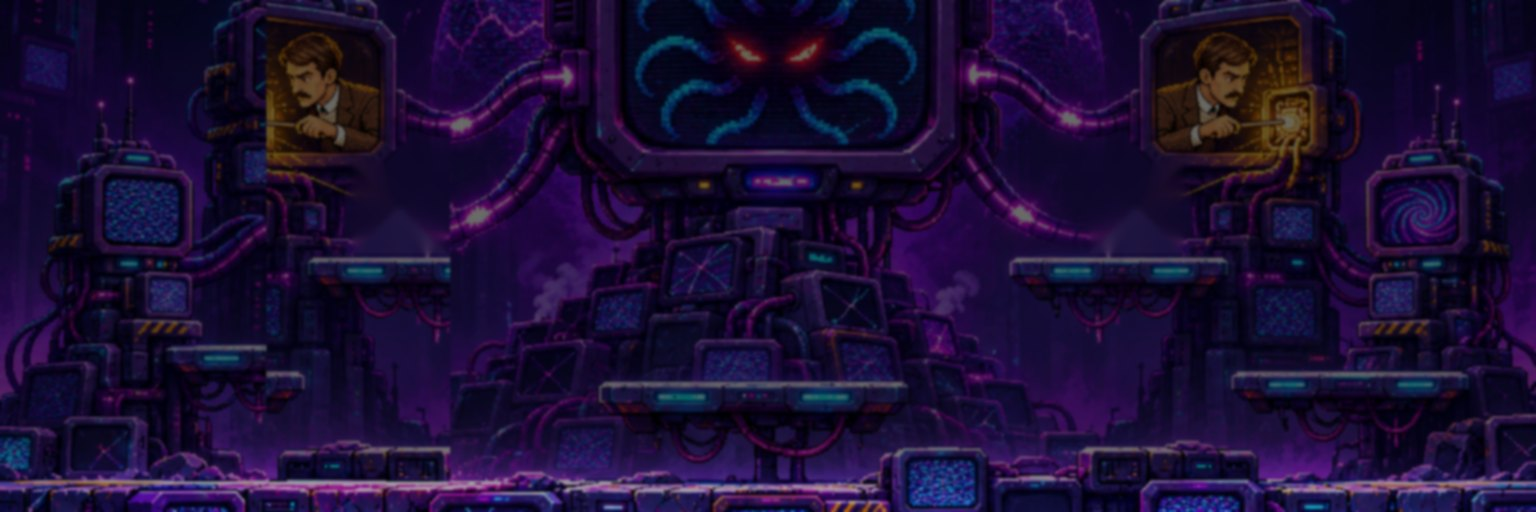
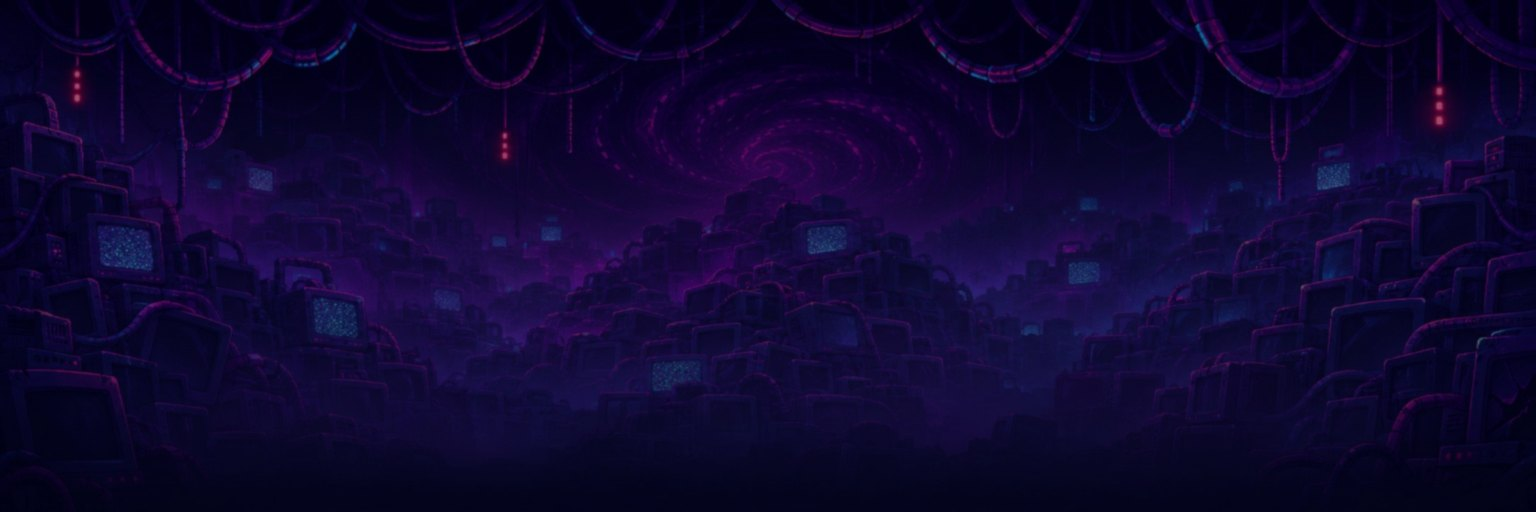
Infoshum: new hall backdrop, smoother colossus/beam, moods; roofs mast, paparazzi, agitator chimneys
- Phase 1 backdrop: mountain of monitors instead of the duplicated arena
- Hall is built immediately on room activation (no flashing platforms)
- Colossus pose crossfades, continuous beam, tower face crossfade
- Breakout Infoshum scaled to match phase 3
- Menacing mood cycle for the monitor faces in phases 1-2
- Roofs: inflator mast always stands on a roof (mirrors when needed)
- Paparazzi shoot more often and always blind
- Agitator chimneys stand on the roof

Claude-Session: https://claude.ai/code/session_01CNS5ua52pLKCa7cQw7qmFC

diff --git a/index.html b/index.html
@@ -5,7 +5,7 @@
 <meta name="theme-color" content="#030a1e"><meta name="description" content="УМА ПРОТИВ ИНФОШУМА — держи ухо востро. Пиксельная игра про кошку Уму и ожившие новости.">
 <title>УМА ПРОТИВ ИНФОШУМА — держи ухо востро</title>
 <link rel="preload" href="./assets/game-heading.png?v=0.21.5" as="image"><link rel="icon" href="favicon.svg" type="image/svg+xml"><link rel="stylesheet" href="style.css?v=0.21.5-stage1"><link rel="stylesheet" href="story-ui.css?v=0.21.5">
-<script type="importmap">{"imports":{"./static-art.js?v=0.21.5":"./static-art.js?v=0.21.5-source","./dimension-art.js?v=0.21.5":"./dimension-art.js?v=0.21.5-dim2","./dimension-systems.js?v=0.21.5":"./dimension-systems.js?v=0.21.5-dim2","./dimension-map.js?v=0.21.5":"./dimension-map.js?v=0.21.5-dim2","./interference-art.js?v=0.21.5":"./interference-art.js?v=0.21.5-infoshum2","./player-rest.js?v=0.21.5":"./player-rest.js?v=0.21.5-source","./echo-double-art.js?v=0.21.5":"./echo-double-art.js?v=0.21.5-echo2","./echo-double.js?v=0.21.5":"./echo-double.js?v=0.21.5-source","./controls-art.js?v=0.21.5":"./controls-art.js?v=0.21.5-moods","./drop-through.js?v=0.21.5":"./drop-through.js?v=0.21.5-source","./cat-animation.js?v=0.21.5":"./cat-animation.js?v=0.21.5-moods","./botfarm-art.js?v=0.21.5":"./botfarm-art.js?v=0.21.5-art3","./botfarm.js?v=0.21.5":"./botfarm.js?v=0.21.5-fb3","./studio-systems.js?v=0.21.5":"./studio-systems.js?v=0.21.5-stage4","./studio-map.js?v=0.21.5":"./studio-map.js?v=0.21.5-fb3","./studio-art.js?v=0.21.5":"./studio-art.js?v=0.21.5-studio2","./studio-container-art.js?v=0.21.5":"./studio-container-art.js?v=0.21.5-stage4","./pit-falls.js?v=0.21.5":"./pit-falls.js?v=0.21.5-studio2","./campaign-enemies.js?v=0.21.5":"./campaign-enemies.js?v=0.21.5-jelly","./art.js?v=0.21.5":"./art.js?v=0.21.5-jelly","./finale.js?v=0.21.5":"./finale.js?v=0.21.5-broadcast2","./boss-phases.js?v=0.21.5":"./boss-phases.js?v=0.21.5-final","./assets.js?v=0.21.5":"./assets.js?v=0.21.5-broadcast2","./boss.js?v=0.21.5":"./boss.js?v=0.21.5-colossus","./boss-abilities.js?v=0.21.5":"./boss-abilities.js?v=0.21.5-roofs","./boss-art.js?v=0.21.5":"./boss-art.js?v=0.21.5-spreader2","./enemies.js?v=0.21.5":"./enemies.js?v=0.21.5-fb3","./render.js?v=0.21.5":"./render.js?v=0.21.5-colossus","./dimension-monsters-art.js?v=0.21.5":"./dimension-monsters-art.js?v=0.21.5-jelly","./loading-art.js?v=0.21.5":"./loading-art.js?v=0.21.5-final","./studio-monsters.js?v=0.21.5":"./studio-monsters.js?v=0.21.5-studio2","./paparazzi.js?v=0.21.5":"./paparazzi.js?v=0.21.5-roofs2","./new-monsters-art.js?v=0.21.5":"./new-monsters-art.js?v=0.21.5-studio2","./tactical-art.js?v=0.21.5":"./tactical-art.js?v=0.21.5-art3","./boss-attack-fx.js?v=0.21.5":"./boss-attack-fx.js?v=0.21.5-stage6","./level.js?v=0.21.5":"./level.js?v=0.21.5-story","./campaign-art.js?v=0.21.5":"./campaign-art.js?v=0.21.5-dim2","./stage-art.js?v=0.21.5":"./stage-art.js?v=0.21.5-source","./engine.js?v=0.21.5":"./engine.js?v=0.21.5-storm","./shield-art.js?v=0.21.5":"./shield-art.js?v=0.21.5-studio","./spreader-combat.js?v=0.21.5":"./spreader-combat.js?v=0.21.5-stage1","./room-transitions.js?v=0.21.5":"./room-transitions.js?v=0.21.5-colossus","./projectile-art.js?v=0.21.5":"./projectile-art.js?v=0.21.5-reference","./spreader-minion-art.js?v=0.21.5":"./spreader-minion-art.js?v=0.21.5-tirazh","./catalog.js?v=0.21.5":"./catalog.js?v=0.21.5-jelly","./boss-defeat-art.js?v=0.21.5":"./boss-defeat-art.js?v=0.21.5-montage","./infoshum-combat.js?v=0.21.5":"./infoshum-combat.js?v=0.21.5-broadcast2","./infoshum-art.js?v=0.21.5":"./infoshum-art.js?v=0.21.5-broadcast2","./infoshum-sprites.js?v=0.21.5":"./infoshum-sprites.js?v=0.21.5-broadcast","./spreader-arena-art.js?v=0.21.5":"./spreader-arena-art.js?v=0.21.5-spreader2","./boss-hud.js?v=0.21.5":"./boss-hud.js?v=0.21.5-stage1","./game.js?v=0.21.5":"./game.js?v=0.21.5-broadcast2","./audio.js?v=0.21.5":"./audio.js?v=0.21.5-studio2","./story.js?v=0.21.5":"./story.js?v=0.21.5-broadcast2","./terrain.js?v=0.21.5":"./terrain.js?v=0.21.5-art3","./world-platforms.js?v=0.21.5":"./world-platforms.js?v=0.21.5-colossus","./manipulator-combat.js?v=0.21.5":"./manipulator-combat.js?v=0.21.5-crane2","./manipulator-art.js?v=0.21.5":"./manipulator-art.js?v=0.21.5-loading","./route-transition-art.js?v=0.21.5":"./route-transition-art.js?v=0.21.5-studio","./agitator-combat.js?v=0.21.5":"./agitator-combat.js?v=0.21.5-stage6","./agitator-art.js?v=0.21.5":"./agitator-art.js?v=0.21.5-stage6","./infoshum-tentacle-art.js?v=0.21.5":"./infoshum-tentacle-art.js?v=0.21.5-broadcast","./chapter-route-art.js?v=0.21.5":"./chapter-route-art.js?v=0.21.5-conveyor","./chapter-routes.js?v=0.21.5":"./chapter-routes.js?v=0.21.5-dim2","./chapter-systems.js?v=0.21.5":"./chapter-systems.js?v=0.21.5-echo2","./encounters.js?v=0.21.5":"./encounters.js?v=0.21.5-studio2","./monster-animation.js?v=0.21.5":"./monster-animation.js?v=0.21.5-art3","./monster-guides.js?v=0.21.5":"./monster-guides.js?v=0.21.5-jelly","./newsroom-art.js?v=0.21.5":"./newsroom-art.js?v=0.21.5-stage2","./passage-art.js?v=0.21.5":"./passage-art.js?v=0.21.5-conveyor","./tactical-enemies.js?v=0.21.5":"./tactical-enemies.js?v=0.21.5-art3","./yuri-portrait.js?v=0.21.5":"./yuri-portrait.js?v=0.21.5-conveyor","./target-highlight.js?v=0.21.5":"./target-highlight.js?v=0.21.5-colossus","./spreader-art.js?v=0.21.5":"./spreader-art.js?v=0.21.5-tirazh","./shelters.js?v=0.21.5":"./shelters.js?v=0.21.5-spreader2","./signal-art.js?v=0.21.5":"./signal-art.js?v=0.21.5-fb3","./navigation-art.js?v=0.21.5":"./navigation-art.js?v=0.21.5-loading","./pixel.js?v=0.21.5":"./pixel.js?v=0.21.5-tutorial","./tutorial.js?v=0.21.5":"./tutorial.js?v=0.21.5-tutorial","./tutorial-art.js?v=0.21.5":"./tutorial-art.js?v=0.21.5-colossus","./readability.js?v=0.21.5":"./readability.js?v=0.21.5-source","./roofs-map.js?v=0.21.5":"./roofs-map.js?v=0.21.5-fb3","./roofs-systems.js?v=0.21.5":"./roofs-systems.js?v=0.21.5-fb3","./roofs-art.js?v=0.21.5":"./roofs-art.js?v=0.21.5-art3","./agitator-map.js?v=0.21.5":"./agitator-map.js?v=0.21.5-agitator3","./pause-menu.js?v=0.21.5":"./pause-menu.js?v=0.21.5-agitator3","./hud-sprites.js?v=0.21.5":"./hud-sprites.js?v=0.21.5-hudbars","./screens.js?v=0.21.5":"./screens.js?v=0.21.5-studio2","./enemy-arrival-art.js?v=0.21.5":"./enemy-arrival-art.js?v=0.21.5-stage2","./infoshum-atlas.js?v=0.21.5":"./infoshum-atlas.js?v=0.21.5-broadcast2","./chapter-story.js?v=0.21.5":"./chapter-story.js?v=0.21.5-broadcast2","./prologue.js?v=0.21.5":"./prologue.js?v=0.21.5-story","./ending-ui.js?v=0.21.5":"./ending-ui.js?v=0.21.5-broadcast2","./story-art.js?v=0.21.5":"./story-art.js?v=0.21.5-broadcast2"}}</script>
+<script type="importmap">{"imports":{"./static-art.js?v=0.21.5":"./static-art.js?v=0.21.5-source","./dimension-art.js?v=0.21.5":"./dimension-art.js?v=0.21.5-dim2","./dimension-systems.js?v=0.21.5":"./dimension-systems.js?v=0.21.5-dim2","./dimension-map.js?v=0.21.5":"./dimension-map.js?v=0.21.5-dim2","./interference-art.js?v=0.21.5":"./interference-art.js?v=0.21.5-infoshum2","./player-rest.js?v=0.21.5":"./player-rest.js?v=0.21.5-source","./echo-double-art.js?v=0.21.5":"./echo-double-art.js?v=0.21.5-echo2","./echo-double.js?v=0.21.5":"./echo-double.js?v=0.21.5-source","./controls-art.js?v=0.21.5":"./controls-art.js?v=0.21.5-moods","./drop-through.js?v=0.21.5":"./drop-through.js?v=0.21.5-source","./cat-animation.js?v=0.21.5":"./cat-animation.js?v=0.21.5-moods","./botfarm-art.js?v=0.21.5":"./botfarm-art.js?v=0.21.5-art3","./botfarm.js?v=0.21.5":"./botfarm.js?v=0.21.5-fb3","./studio-systems.js?v=0.21.5":"./studio-systems.js?v=0.21.5-stage4","./studio-map.js?v=0.21.5":"./studio-map.js?v=0.21.5-fb3","./studio-art.js?v=0.21.5":"./studio-art.js?v=0.21.5-studio2","./studio-container-art.js?v=0.21.5":"./studio-container-art.js?v=0.21.5-stage4","./pit-falls.js?v=0.21.5":"./pit-falls.js?v=0.21.5-studio2","./campaign-enemies.js?v=0.21.5":"./campaign-enemies.js?v=0.21.5-jelly","./art.js?v=0.21.5":"./art.js?v=0.21.5-jelly","./finale.js?v=0.21.5":"./finale.js?v=0.21.5-broadcast2","./boss-phases.js?v=0.21.5":"./boss-phases.js?v=0.21.5-final","./assets.js?v=0.21.5":"./assets.js?v=0.21.5-broadcast2","./boss.js?v=0.21.5":"./boss.js?v=0.21.5-colossus","./boss-abilities.js?v=0.21.5":"./boss-abilities.js?v=0.21.5-roofs","./boss-art.js?v=0.21.5":"./boss-art.js?v=0.21.5-spreader2","./enemies.js?v=0.21.5":"./enemies.js?v=0.21.5-fb3","./render.js?v=0.21.5":"./render.js?v=0.21.5-colossus","./dimension-monsters-art.js?v=0.21.5":"./dimension-monsters-art.js?v=0.21.5-jelly","./loading-art.js?v=0.21.5":"./loading-art.js?v=0.21.5-final","./studio-monsters.js?v=0.21.5":"./studio-monsters.js?v=0.21.5-studio2","./paparazzi.js?v=0.21.5":"./paparazzi.js?v=0.21.5-fb4","./new-monsters-art.js?v=0.21.5":"./new-monsters-art.js?v=0.21.5-studio2","./tactical-art.js?v=0.21.5":"./tactical-art.js?v=0.21.5-art3","./boss-attack-fx.js?v=0.21.5":"./boss-attack-fx.js?v=0.21.5-stage6","./level.js?v=0.21.5":"./level.js?v=0.21.5-story","./campaign-art.js?v=0.21.5":"./campaign-art.js?v=0.21.5-dim2","./stage-art.js?v=0.21.5":"./stage-art.js?v=0.21.5-source","./engine.js?v=0.21.5":"./engine.js?v=0.21.5-storm","./shield-art.js?v=0.21.5":"./shield-art.js?v=0.21.5-studio","./spreader-combat.js?v=0.21.5":"./spreader-combat.js?v=0.21.5-stage1","./room-transitions.js?v=0.21.5":"./room-transitions.js?v=0.21.5-fb4","./projectile-art.js?v=0.21.5":"./projectile-art.js?v=0.21.5-reference","./spreader-minion-art.js?v=0.21.5":"./spreader-minion-art.js?v=0.21.5-tirazh","./catalog.js?v=0.21.5":"./catalog.js?v=0.21.5-fb4","./boss-defeat-art.js?v=0.21.5":"./boss-defeat-art.js?v=0.21.5-montage","./infoshum-combat.js?v=0.21.5":"./infoshum-combat.js?v=0.21.5-fb4","./infoshum-art.js?v=0.21.5":"./infoshum-art.js?v=0.21.5-fb4","./infoshum-sprites.js?v=0.21.5":"./infoshum-sprites.js?v=0.21.5-broadcast","./spreader-arena-art.js?v=0.21.5":"./spreader-arena-art.js?v=0.21.5-spreader2","./boss-hud.js?v=0.21.5":"./boss-hud.js?v=0.21.5-stage1","./game.js?v=0.21.5":"./game.js?v=0.21.5-broadcast2","./audio.js?v=0.21.5":"./audio.js?v=0.21.5-studio2","./story.js?v=0.21.5":"./story.js?v=0.21.5-fb4","./terrain.js?v=0.21.5":"./terrain.js?v=0.21.5-art3","./world-platforms.js?v=0.21.5":"./world-platforms.js?v=0.21.5-colossus","./manipulator-combat.js?v=0.21.5":"./manipulator-combat.js?v=0.21.5-crane2","./manipulator-art.js?v=0.21.5":"./manipulator-art.js?v=0.21.5-loading","./route-transition-art.js?v=0.21.5":"./route-transition-art.js?v=0.21.5-studio","./agitator-combat.js?v=0.21.5":"./agitator-combat.js?v=0.21.5-stage6","./agitator-art.js?v=0.21.5":"./agitator-art.js?v=0.21.5-fb4","./infoshum-tentacle-art.js?v=0.21.5":"./infoshum-tentacle-art.js?v=0.21.5-broadcast","./chapter-route-art.js?v=0.21.5":"./chapter-route-art.js?v=0.21.5-conveyor","./chapter-routes.js?v=0.21.5":"./chapter-routes.js?v=0.21.5-dim2","./chapter-systems.js?v=0.21.5":"./chapter-systems.js?v=0.21.5-echo2","./encounters.js?v=0.21.5":"./encounters.js?v=0.21.5-studio2","./monster-animation.js?v=0.21.5":"./monster-animation.js?v=0.21.5-art3","./monster-guides.js?v=0.21.5":"./monster-guides.js?v=0.21.5-fb4","./newsroom-art.js?v=0.21.5":"./newsroom-art.js?v=0.21.5-stage2","./passage-art.js?v=0.21.5":"./passage-art.js?v=0.21.5-conveyor","./tactical-enemies.js?v=0.21.5":"./tactical-enemies.js?v=0.21.5-art3","./yuri-portrait.js?v=0.21.5":"./yuri-portrait.js?v=0.21.5-conveyor","./target-highlight.js?v=0.21.5":"./target-highlight.js?v=0.21.5-colossus","./spreader-art.js?v=0.21.5":"./spreader-art.js?v=0.21.5-tirazh","./shelters.js?v=0.21.5":"./shelters.js?v=0.21.5-spreader2","./signal-art.js?v=0.21.5":"./signal-art.js?v=0.21.5-fb3","./navigation-art.js?v=0.21.5":"./navigation-art.js?v=0.21.5-loading","./pixel.js?v=0.21.5":"./pixel.js?v=0.21.5-tutorial","./tutorial.js?v=0.21.5":"./tutorial.js?v=0.21.5-tutorial","./tutorial-art.js?v=0.21.5":"./tutorial-art.js?v=0.21.5-colossus","./readability.js?v=0.21.5":"./readability.js?v=0.21.5-source","./roofs-map.js?v=0.21.5":"./roofs-map.js?v=0.21.5-fb3","./roofs-systems.js?v=0.21.5":"./roofs-systems.js?v=0.21.5-fb3","./roofs-art.js?v=0.21.5":"./roofs-art.js?v=0.21.5-fb4","./agitator-map.js?v=0.21.5":"./agitator-map.js?v=0.21.5-agitator3","./pause-menu.js?v=0.21.5":"./pause-menu.js?v=0.21.5-agitator3","./hud-sprites.js?v=0.21.5":"./hud-sprites.js?v=0.21.5-hudbars","./screens.js?v=0.21.5":"./screens.js?v=0.21.5-studio2","./enemy-arrival-art.js?v=0.21.5":"./enemy-arrival-art.js?v=0.21.5-stage2","./infoshum-atlas.js?v=0.21.5":"./infoshum-atlas.js?v=0.21.5-broadcast2","./chapter-story.js?v=0.21.5":"./chapter-story.js?v=0.21.5-broadcast2","./prologue.js?v=0.21.5":"./prologue.js?v=0.21.5-story","./ending-ui.js?v=0.21.5":"./ending-ui.js?v=0.21.5-broadcast2","./story-art.js?v=0.21.5":"./story-art.js?v=0.21.5-broadcast2"}}</script>
 </head>
 <body>
 <main id="app" data-screen="menu">
@@ -70,5 +70,5 @@
 
 <div id="hud-status" class="sr-only" aria-live="polite"></div>
 <div id="accessible-state" class="sr-only" aria-live="polite"></div>
-</main><script type="module" src="game.js?v=0.21.5-broadcast2"></script>
+</main><script type="module" src="game.js?v=0.21.5-fb4"></script>
 </body></html>

diff --git a/infoshum-art.js b/infoshum-art.js
@@ -20,8 +20,9 @@ function drawLineWarning(c,a,x,y,w,time){
 }
 // The big beams (the colossus head): infoshum-giant-beam.png, tiled along the line.
 function drawGiantBeam(c,a,x,y,w,half,time){
- const img=a.infoshumGiantBeam;if(!img)return;const p=AT.giantBeam['b'+(Math.floor(time*14)%3)],th=half*2.6,tw=p.r[2]*th/p.r[3];
- c.save();c.beginPath();c.rect(x,y-th/2-2,w,th+4);c.clip();for(let xx=x;xx<x+w;xx+=tw-2)c.drawImage(img,p.r[0],p.r[1],p.r[2],p.r[3],Math.round(xx),Math.round(y-th/2+Math.sin(time*40)*2),Math.round(tw),Math.round(th));c.restore();
+ // One stretched piece (tiles left seams); two frames blend so the beam shimmers instead of flickering.
+ const img=a.infoshumGiantBeam;if(!img)return;const t=time*10,f=Math.floor(t)%3,k=t-Math.floor(t),th=half*2.6*(1+Math.sin(time*18)*.06);
+ c.save();for(const [i,al] of [[f,1-k],[(f+1)%3,k]]){const p=AT.giantBeam['b'+i];c.globalAlpha=al;c.drawImage(img,p.r[0],p.r[1],p.r[2],p.r[3],x,y-th/2,w,th);}c.restore();
 }
 function drawRay(c,a,x0,y0,x1,y1,half,time,warn){const len=Math.hypot(x1-x0,y1-y0);c.save();c.translate(x0,y0);c.rotate(Math.atan2(y1-y0,x1-x0));if(warn)drawLineWarning(c,a,0,0,len,time);else drawGiantBeam(c,a,0,0,len,half,time);c.restore();}
 function amberFrame(c,r,time,pad=0){c.save();c.strokeStyle='#ffc45e';c.shadowColor='#ffb347';c.shadowBlur=16;c.lineWidth=3;c.globalAlpha=.65+.3*Math.sin(time*8);c.strokeRect(r.x-pad,r.y-pad,r.w+pad*2,r.h+pad*2);c.restore();}
@@ -50,7 +51,9 @@ function drawHallBack(c,a,g,time){
  const pair=ROUND_PAIRS[n.round]||[];
  n.relays.forEach((q,i)=>drawCable(c,a,g,i,time,q.state==='dead'||q.state==='hit'));
  n.relays.forEach((q,i)=>drawRelay(c,a,g,i,q.state,time));
- const shake=n.face==='roar'?Math.sin(time*50)*2:n.face==='charge'?Math.sin(time*70)*1.2:0;drawTowerAt(c,a,n.face,r.x+TOWER.cx,TOWER.base,1,time,{shake});
+ const shake=n.face==='roar'?Math.sin(time*50)*2:n.face==='charge'?Math.sin(time*70)*1.2:0,fade=n.faceFade||(n.faceFade={face:n.face,prev:null,at:-9});
+ if(fade.face!==n.face){fade.prev=fade.face;fade.face=n.face;fade.at=time;}const fk=Math.min(1,Math.max(0,(time-fade.at)/.12));
+ if(fade.prev&&fk<1)drawTowerAt(c,a,fade.prev,r.x+TOWER.cx,TOWER.base,1,time,{alpha:1-fk});drawTowerAt(c,a,n.face,r.x+TOWER.cx,TOWER.base,1,time,{shake,alpha:fade.prev&&fk<1?Math.max(.4,fk):1});
  if(n.shield&&n.mode!=='opening')drawShield(c,g,time);
  if(n.take?.show==='yuri')amberFrame(c,towerScreen(g),time,4);
 }
@@ -70,7 +73,7 @@ function drawHallFront(c,a,g,time){
 }
 // ——— The assembly: the relays fly into the tower, the colossus rises around it ———
 const BODY_K=430/360,BASE=FLOOR+10;
-function bodyFrame(c,a,name,cx,{flip=false,alpha=1,shake=0}={}){const p=AT.body[name];if(!p||!a.infoshumBody)return null;const k=BODY_K,w=p.r[2]*k,h=p.r[3]*k,hx=p.hx[0]*k,x=flip?cx-(w-hx):cx-hx,y=BASE-p.gy[0]*k;piece(c,a.infoshumBody,p,x+shake,y,w,h,{flip,alpha});return {x,y,w,h,k,p,flip};}
+function bodyFrame(c,a,name,cx,{flip=false,alpha=1,shake=0}={}){if(alpha<=0)return null;const p=AT.body[name];if(!p||!a.infoshumBody)return null;const k=BODY_K,w=p.r[2]*k,h=p.r[3]*k,hx=p.hx[0]*k,x=flip?cx-(w-hx):cx-hx,y=BASE-p.gy[0]*k;piece(c,a.infoshumBody,p,x+shake,y,w,h,{flip,alpha});return {x,y,w,h,k,p,flip};}
 function bodyPoint(f,pt){const x=f.flip?f.x+f.w-pt[0]*f.k:f.x+pt[0]*f.k;return {x,y:f.y+pt[1]*f.k};}
 function drawAssembly(c,a,g,time){
  const n=g.boss.network,k=n.transitionProgress,r=rooms[g.room],cx=r.x+TOWER.cx;
@@ -98,6 +101,7 @@ function colossusPose(g,time){
  const s=a.sweep;if(s){const o=s.low?0:3,flip=s.dir<0;if(s.state==='warn')return ['sweep'+o,flip];return ['sweep'+(o+(s.travel<COL.sweepSpan*.45?1:2)),flip];}
  if(a.beam)return ['idle7'];
  if(a.hurt>0)return ['idle'+(5+Math.floor(time*6)%2)];
+ if(a.roar>0)return ['idle'+(3+Math.floor(time*5)%2)];
  return ['idle'+[0,1,2,1][Math.floor(time*3)%4]];
 }
 function drawShaft(c,a,g,time){
@@ -106,15 +110,23 @@ function drawShaft(c,a,g,time){
  else rect(c,g.camera,0,vw,512,'#1a0b33');
  c.save();c.globalAlpha=.35;rect(c,g.camera,0,vw,512,'#0a0418');c.restore();
 }
-function drawColossus(c,a,g,time){const [name,flip=false,shake=0]=colossusPose(g,time),hurt=g.boss.hurtTime>0?Math.sin(time*60)*3:0;return bodyFrame(c,a,name,rooms[g.room].x+TOWER.cx,{flip,shake:shake+hurt});}
+// A short crossfade between two poses keeps the giant from snapping from frame to frame.
+const FADE=.14;
+function drawColossus(c,a,g,time){
+ const col=g.boss.network.col||{},[name,flip=false,shake=0]=colossusPose(g,time),hurt=g.boss.hurtTime>0?Math.sin(time*60)*3:0,key=name+(flip?'~':''),cx=rooms[g.room].x+TOWER.cx;
+ const fade=col.fade||(col.fade={key,prev:null,at:-9});if(fade.key!==key){fade.prev=fade.key;fade.at=time;fade.key=key;}
+ const k=Math.min(1,Math.max(0,(time-fade.at)/FADE));
+ if(fade.prev&&k<1){const [pn,pf]=[fade.prev.replace('~',''),fade.prev.endsWith('~')];bodyFrame(c,a,pn,cx,{flip:pf,alpha:1-k,shake:hurt});}
+ return bodyFrame(c,a,name,cx,{flip,shake:shake+hurt,alpha:fade.prev?Math.max(.35,k):1});
+}
 // The breakout (assets/infoshum-breakout.png): bulging glass, tentacles through it, the burst, he tears out, the roar.
 const BREAK=[[37,144,310,269],[394,140,373,273],[732,80,372,335],[1117,112,410,295],[8,552,386,383],[403,580,353,355],[780,548,320,373],[1141,589,380,309]];
 export function breakoutFrame(progress){return progress<.2?0:progress<.38?1:progress<.5?2:progress<.64?3:progress<.84?4:5;}
 function drawBreakout(c,a,g,progress,time){
  const img=a.infoshumBreakout;if(!img)return;const f=breakoutFrame(progress),box=BREAK[f],h=headBox(g),cx=h.x+h.w/2,cy=h.y+h.h/2-70-(f>=4?(progress-.64)/.36*70:0);
- const base=.95,k=base*(f>=4?1.25+.15*(f-4):1),shake=f===2?Math.sin(time*90)*4:f<2?Math.sin(time*60)*progress*6:0;
+ const base=.72,k=f>=4?.46+.05*(f-4):base,shake=f===2?Math.sin(time*90)*4:f<2?Math.sin(time*60)*progress*6:0;
  c.drawImage(img,box[0],box[1],box[2],box[3],Math.round(cx-box[2]*k/2+shake),Math.round(cy-box[3]*k/2),Math.round(box[2]*k),Math.round(box[3]*k));
- if(f>=2&&f<=4){const s=BREAK[7],spread=Math.min(1,(progress-.38)/.4),sk=base*(.8+spread*.9);c.save();c.globalAlpha=1-spread*.7;c.drawImage(img,s[0],s[1],s[2],s[3],Math.round(cx-s[2]*sk/2),Math.round(cy-s[3]*sk/2),Math.round(s[2]*sk),Math.round(s[3]*sk));c.restore();}
+ if(f>=2&&f<=4){const s=BREAK[7],spread=Math.min(1,(progress-.38)/.4),sk=base*(.8+spread*.7);c.save();c.globalAlpha=1-spread*.7;c.drawImage(img,s[0],s[1],s[2],s[3],Math.round(cx-s[2]*sk/2),Math.round(cy-s[3]*sk/2),Math.round(s[2]*sk),Math.round(s[3]*sk));c.restore();}
  if(f===2)flash(c,g,.6*(1-(progress-.38)/.12),'#ffe4fb');
  if(progress>.9)flash(c,g,(progress-.9)/.1*.8);
 }

diff --git a/catalog.js b/catalog.js
@@ -4,7 +4,7 @@ export const monsters=[
  {id:'censor',chapter:0,name:'Цензор',description:'Вымарывает неудобное из газетного потока.',abilities:[['РОСТ','Вырастает из ленты перед Умой.'],['ПРЕГРАДА','Неуязвим, ранит касанием.']],tip:'Вздулась бумага — сейчас вырастет. Прыгай.'},
  {id:'stamp',chapter:0,name:'Штамп',description:'Редакторский штамп, скрывающий неудобное.',abilities:[['ЧЕРНИЛА','Заливает настил пятнами.'],['СКОЛЬЖЕНИЕ','Ума теряет сцепление.']],tip:'Перепрыгни чернила. Враги тоже вязнут в них.'},
  {id:'spreader',chapter:0,boss:true,name:'Распространитель',description:'Хозяин газетного потока.',abilities:[['БОМБАРДИРОВКА','Пачки газет и сбор тиража.'],['РЫВОК','Трубкой по полу, копьём с неба.']],tip:'Прячься под столом. Бей, когда он упал или застрял.'},
- {id:'paparazzi',chapter:1,name:'Папарацци',description:'Назойливый фотоаппарат на треноге.',abilities:[['ПРИЦЕЛ','Наводит объектив и заряжает вспышку.'],['ВСПЫШКА','Ослепляет, если смотришь на него.']],tip:'Отвернись или спрячься за трубу.'},
+ {id:'paparazzi',chapter:1,name:'Папарацци',description:'Назойливый фотоаппарат на треноге.',abilities:[['ПРИЦЕЛ','Наводит объектив и заряжает вспышку.'],['ВСПЫШКА','Часто щёлкает и всегда ослепляет.']],tip:'Проскочи рывком или разбей камеру.'},
  {id:'inflator',chapter:1,name:'Нагнетатель',description:'Рупор-вентилятор на кронштейне высоко над крышами.',abilities:[['ПОРЫВ','Ветер по всей карте сносит Уму.'],['НЕДОСТУПЕН','До него не дотянуться.']],tip:'В полёте ветер сильнее. На крыше пригнись.'},
  {id:'sensation',chapter:1,name:'Сенсация',description:'Новость-петарда, сбивающая с ног.',abilities:[['СТАЯ','Пролетает над крышами слева направо.'],['СБИВАНИЕ','Толкает Уму по ходу полёта.']],tip:'Крик «!» слева: пригнись, перепрыгни или сбей лапой.'},
  {id:'agitator',chapter:1,boss:true,name:'Агитатор',description:'Робот, захвативший городской эфир.',abilities:[['ЛОЗУНГ','Буквы строят лестницу к мачте.'],['ЭФИР','Ветер с вышки: прячься за трубы.']],tip:'Перегретый рупор и «УРА!» — бей.'},

diff --git a/tests/settings-roofs.test.js b/tests/settings-roofs.test.js
@@ -48,14 +48,13 @@ test('a flock of Сенсации cries from the right, sweeps the whole map rig
  assert.ok(g.roofs.flock.birds.some(b=>b.dead),'one bird popped');assert.ok(g.kills>0);
 });
 test('an echo field still transfers the protected cat but never consumes the last stock or reports a false lost life',()=>{const g=ready(true),e={kind:'echoOrb',type:'echo',id:'orb-test',room:3,w:40,h:38,ttl:99,state:'pulling',warpCooldown:0};g.lives=1;g.player.inv=0;g.echoImmunity=0;Object.assign(e,{x:g.player.x,y:g.player.y});handleFlyingContact(g,e);assert.equal(g.mode,'echoWarp');tick(g,50);assert.equal(g.lives,1);assert.equal(g.mode,'playing');assert.ok(g.events.some(e=>e.type==='testRescue'&&e.reason==='echo'));assert.ok(!g.events.some(e=>e.type==='lifeLost'||e.type==='lost'));});
-test('a Папарацци aims, charges and flashes: looking at it blinds Uma, turning away or a chimney between them does not; two hits break it',()=>{
+test('a Папарацци aims, charges and flashes: the flash always blinds Uma within reach; two hits break it',()=>{
  const setup=(face,{roof='3:2',ex=830,ux=720}={})=>{const g=ready(),s=g.platforms.find(p=>p.id===roof),e=enemy('paparazzi',3,ex,+roof.slice(2),{active:true,noticed:true,timer:0});g.enemies=[e];Object.assign(g.player,{x:rooms[3].x+ux,y:s.y-48,grounded:true,supportId:s.id,dir:face,inv:0});g.updateCamera();return {g,e};};
  const flash=(g,e,input={})=>{for(let i=0;i<120&&e.state!=='flash';i++)g.step(1/60,input);return g.events.find(v=>v.type==='cameraFlash');};
  let {g,e}=setup(1);const shot=flash(g,e);assert.ok(g.events.some(v=>v.type==='flashWarning'),'the lamp warns first');assert.equal(shot.seen,true);assert.ok(g.player.blindTime>0);
  const x=g.player.x;for(let i=0;i<20;i++)g.step(1/60,{right:true,jump:true});assert.equal(g.player.x,x,'blinded Uma freezes');assert.equal(g.player.grounded,true);
- ({g,e}=setup(-1));assert.equal(flash(g,e).seen,false,'turned away');assert.ok(!(g.player.blindTime>0));
- // The chimney on A1 stands between the camera and Uma's eyes.
- ({g,e}=setup(-1,{roof:'3:1',ex:430,ux:540}));assert.equal(flash(g,e,{down:true}).seen,false,'hidden behind the chimney');
+ ({g,e}=setup(-1));assert.equal(flash(g,e).seen,true,'turning away no longer helps');assert.ok(g.player.blindTime>0);
+ ({g,e}=setup(-1,{roof:'3:1',ex:430,ux:540}));assert.equal(flash(g,e,{down:true}).seen,true,'nor does a chimney');
  ({g,e}=setup(1,{ex:760,ux:715}));for(let k=0;k<2;k++){e.inv=0;g.hitEnemy(e);}assert.equal(e.dead,true);
 });
 test('every Нагнетатель on the roofs faces Uma (right to left) and its gust pushes her to the left',()=>{

diff --git a/monster-guides.js b/monster-guides.js
@@ -6,7 +6,7 @@ export const monsterGuides={
  informant:['Информатор переносится к тебе на платформу и стреляет пакетами.','Уйди с метки. Отбей пакет лапой, чтобы пробить его защиту.'],
  boom:['Журавль держит штангу с микрофоном, а потом опускает её на уровне головы.','Пригнись и проползи под штангой или подожди, пока он её поднимет. Удар лапой его оглушает.'],
  spotlight:['Прожекторщик висит под потолком и ведёт за тобой красный луч, а потом жжёт.','Уйди из-под красного пятна. Под низкой декорацией луч тебя не достанет.'],
- paparazzi:['Папарацци наводит объектив и заряжает вспышку: лампа на макушке разгорается.','Отвернись или спрячься за трубу, пока он не щёлкнул. Ослеплённая Ума замирает.'],
+ paparazzi:['Папарацци наводит объектив и заряжает вспышку: лампа на макушке разгорается.','Вспышка ослепляет всегда, и Ума замирает. Проскочи рывком или разбей камеру двумя ударами.'],
  inflator:['Нагнетатель нельзя сломать: его порыв проносится по всей карте.','Прыгай на батут между порывами, а на крыше пригнись.'],
  sensation:['Сенсации пролетают стаей и сбивают Уму на лету.','Красный знак предупреждает о стае: пригнись, пережди или сбей лапой.'],
  panicker:['Паникёр открывает портал и зовёт Фейкньюса.','Прокрадись мимо: вниз. Или ударь до окончания звонка.'],

diff --git a/infoshum-combat.js b/infoshum-combat.js
@@ -118,6 +118,7 @@ function stepAttacks(g,dt){
  n.puddles=n.puddles.filter(q=>q.time<WAVE.puddle);
 }
 const attacksBusy=n=>n.scans.length||n.whips.length||n.tvs.length;
+const MOODS=[['roar',.55],['static',.25],['roar',.4],['charge',.3]];
 function stepScreens(g,dt){
  const b=g.boss,n=b.network;buildWall(g);n.faceTime=Math.max(0,n.faceTime-dt);
  const sc=towerScreen(g);b.x=sc.x+sc.w/2-b.w/2;b.y=sc.y+sc.h/2-b.h/2;b.dir=1;
@@ -126,6 +127,8 @@ function stepScreens(g,dt){
  if(!n.shield){b.state='recover';stepTakeover(g,dt);return;}
  b.state=n.faceTime>0&&n.face==='charge'?'casting':'windup';
  if(n.faceTime<=0&&!['face','crack1','crack2'].includes(n.face))setFace(n,faceFor(n));
+ // Between attacks his face is never still: he snarls, glitches with static, glares with a charging glow.
+ n.mood=(n.mood??2.2)-dt;if(n.mood<=0&&n.faceTime<=0&&!attacksBusy(n)){const m=MOODS[Math.floor(Math.random()*MOODS.length)];setFace(n,m[0],m[1]);n.mood=1.6+Math.random()*1.6;}
  if(attacksBusy(n))return;n.timer-=dt;if(n.timer<=0){towerAttack(g);n.timer=WAVE.gap[n.round];}
 }
 function addUnits(g,u,x,y){const b=g.boss,n=b.network;n.units+=u;b.hp=Math.max(INFOSHUM_HP-PHASE_HP,+(INFOSHUM_HP-n.units).toFixed(3));b.hurtTime=.35;g.emit('bossHit',{boss:'infoshum',x,y});}
@@ -201,7 +204,8 @@ function stepBeam(g,dt){
  if(m.timer<=0){a.beam=null;a.head=0;idle(a);}
 }
 function stepColossus(g,dt){
- const b=g.boss,n=b.network,a=n.col,p=g.player;a.clock=(a.clock||0)+dt;if(a.hurt>0)a.hurt-=dt;
+ const b=g.boss,n=b.network,a=n.col,p=g.player;a.clock=(a.clock||0)+dt;if(a.hurt>0)a.hurt-=dt;if(a.roar>0)a.roar-=dt;
+ if(a.mode==='idle'){a.moodT=(a.moodT??1.5)-dt;if(a.moodT<=0){a.roar=.7;a.moodT=2.4+Math.random()*1.8;}}
  a.flash=Math.max(0,a.flash-dt);a.headTime=Math.max(0,a.headTime-dt);if(a.headTime<=0&&a.mode!=='collapse')a.head=0;
  if(a.dust){a.dust.time+=dt;if(a.dust.time>.45)a.dust=null;}
  b.x=centre(g)-b.w/2;b.y=120;

diff --git a/room-transitions.js b/room-transitions.js
@@ -1,4 +1,5 @@
 import {signalProfile} from './signal.js?v=0.21.5';
+import {buildWall} from './infoshum-combat.js?v=0.21.5';
 import {rooms,spawns,platforms,MAX_HEALTH,LAST_ROOM} from './level.js?v=0.21.5';
 import {createBoss} from './boss.js?v=0.21.5';
 import {syncAgitatorPlatforms} from './agitator-combat.js?v=0.21.5';
@@ -22,7 +23,7 @@ export function activateRoom(g,index,{heal=true}={}){
  g.visitedPlatforms=new Set([index+':0']);g.safeTrail=[{platformId:index+':0',x:p.x,y:p.y}];g.echoImmunity=1.5;
  if(heal)g.health=r.arena?MAX_HEALTH:Math.min(MAX_HEALTH,g.health+1);
  if(index===2||index===6)for(const d of g.relays)if(d.room===index)d.hp=0;
- g.boss=createBoss(index);if(r.arena){if(g.bossesDefeated.has(r.boss)){g.boss.hp=0;g.boss.active=false;if(g.boss.broadcast){g.boss.broadcast.stage='done';g.boss.broadcast.mast='bent';}}else{g.boss.active=true;g.boss.state='recover';g.boss.timer=2;g.boss.noticeTime=.35;g.emit('bossStart',{boss:r.boss});for(const n of g.notebooks||[])if(n.bossStart&&n.room===index&&!n.taken)n.readyAt=g.time;}}
+ g.boss=createBoss(index);if(g.boss.network&&!g.bossesDefeated.has(r.boss))buildWall(g);if(r.arena){if(g.bossesDefeated.has(r.boss)){g.boss.hp=0;g.boss.active=false;if(g.boss.broadcast){g.boss.broadcast.stage='done';g.boss.broadcast.mast='bent';}}else{g.boss.active=true;g.boss.state='recover';g.boss.timer=2;g.boss.noticeTime=.35;g.emit('bossStart',{boss:r.boss});for(const n of g.notebooks||[])if(n.bossStart&&n.room===index&&!n.taken)n.readyAt=g.time;}}
  if(index===4)syncAgitatorPlatforms(g);
  if(index===3)g.roofs=createRoofs();
  if(index===5){g.studio=createStudio();updateStudioPlatforms(g);}

diff --git a/roofs-art.js b/roofs-art.js
@@ -89,8 +89,10 @@ export function drawInflatorMachine(c,a,e,t,x=e.x+e.w/2,feet=e.y+e.h,width=96){
  const img=a.inflatorMachine;if(!img)return false;const k=width/163,shake=e.state==='blast'?Math.sin(t*50):0;
  // The wall bracket it is bolted to, high above the roofs.
  // It stands on a lattice mast bolted to the roof below (a platform on top, guy wires down to the roof).
- if(e.room===3&&e.mountY!==undefined){const fx=Math.round(x),fy=Math.round(feet),x0=rooms[3].x,roof=ROOF_BUILDINGS.find(b=>fx>=x0+b.x&&fx<=x0+b.x+b.w),base=roof?roof.y:HEIGHT;
-  if(a.inflatorMast)drawMastArt(c,a.inflatorMast,fx,fy,base);
+ if(e.room===3&&e.mountY!==undefined){const fx=Math.round(x),fy=Math.round(feet),x0=rooms[3].x,roofAt=px=>ROOF_BUILDINGS.filter(b=>px>=x0+b.x+6&&px<=x0+b.x+b.w-6).sort((p,q)=>p.y-q.y)[0],off=(MAST.deckMid-MAST.post)/2;
+  // The lattice post must stand on a roof: if there is none under the usual side, the deck is mirrored.
+  const left=roofAt(fx-off),right=roofAt(fx+off),flip=!left&&!!right,roof=flip?right:left||roofAt(fx),base=roof?roof.y:HEIGHT;
+  if(a.inflatorMast){if(flip){c.save();c.translate(fx,0);c.scale(-1,1);c.translate(-fx,0);}drawMastArt(c,a.inflatorMast,fx,fy,base);if(flip)c.restore();}
   else{const half=12,dark='#262b38',lit='#5d6676';
    for(const s of[-1,1]){rect(c,fx+s*half-2,fy,4,base-fy,dark);rect(c,fx+s*half-2,fy,1,base-fy,lit);}
    for(let y=fy+8;y<base-4;y+=22){for(let i=0;i<22&&y+i<base;i+=2){rect(c,fx-half+i*24/22,y+i,3,2,dark);rect(c,fx+half-i*24/22-3,y+i,3,2,dark);}rect(c,fx-half,y,half*2,2,lit);}

diff --git a/paparazzi.js b/paparazzi.js
@@ -3,7 +3,7 @@ import {rooms} from './level.js?v=0.21.5';
 // Папарацци (Крыши): a camera on a tripod that stays on its roof. It turns to Uma, aims, charges the lamp and flashes.
 // If Uma is looking at it at that moment and nothing (a chimney, a tank, a taller house) stands between them,
 // the flash blinds her: she freezes for a moment. Turning away or hiding behind cover beats it; two paw hits break it.
-export const PAPARAZZI={reach:400,height:220,aim:.55,charge:.85,flash:.3,rest:2.1,blind:.9};
+export const PAPARAZZI={reach:400,height:220,aim:.4,charge:.7,flash:.3,rest:1.1,blind:1};
 const segmentHitsRect=(x1,y1,x2,y2,r)=>{
  // Sampled test is plenty at these sizes (the line is at most a screen long).
  for(let i=1;i<24;i++){const t=i/24,x=x1+(x2-x1)*t,y=y1+(y2-y1)*t;if(x>r.x&&x<r.x+r.w&&y>r.y&&y<r.y+r.h)return true;}return false;
@@ -22,7 +22,8 @@ export function stepPaparazzi(g,e,dt,dx,dy){
  else if(e.state==='aim'&&e.timer<=0){e.state='charge';e.timer=PAPARAZZI.charge;g.emit('flashWarning',{x:e.x,y:e.y,enemyType:e.type});}
  else if(e.state==='charge'&&e.timer<=0){
   e.state='flash';e.timer=PAPARAZZI.flash;e.attackFlash=PAPARAZZI.flash;
-  const seen=near&&lookingAt(p,e)&&!flashCovered(g,e)&&p.inv===0&&p.dash===0;
+  // The flash always blinds a cat within reach (a dash through it is the only way past).
+  const seen=near&&p.inv===0&&p.dash===0;
   if(seen){p.blindTime=PAPARAZZI.blind;p.vx=0;g.emit('flashBlind',{x:p.x,y:p.y});}
   g.emit('cameraFlash',{x:e.x+e.w/2,y:e.y,seen,enemyType:e.type});
  }

diff --git a/story.js b/story.js
@@ -30,7 +30,7 @@ export const scenes={
  informant:{pages:['Информатор переносится следом. Следи за меткой, отражай пакеты.']},
  boom:{pages:['Журавль опускает штангу на уровне головы. Пригнись и проползи под ней.']},
  spotlight:{pages:['Красный луч Прожекторщика жжёт. Уйди из пятна или спрячься под декорацией.']},
- paparazzi:{pages:['Папарацци заряжает вспышку. Отвернись или спрячься за трубу — иначе ослепнешь.']},
+ paparazzi:{pages:['Папарацци снимает часто, и вспышка ослепляет всегда. Проскочи рывком или разбей камеру двумя ударами.']},
  inflator:{pages:['Нагнетатель нельзя сломать. Его порыв сносит Уму по всей карте — в полёте сильнее. На крыше пригнись.']},
  sensation:{pages:['Сенсации летают стаей и сбивают с ног. Увидишь красный знак — пригнись или пережди.']},
  panicker:{pages:['Паникёр раз в десять секунд зовёт Фейкньюса. Крадись мимо или прерви звон ударом.']},

diff --git a/tests/infoshum.test.js b/tests/infoshum.test.js
@@ -102,8 +102,8 @@ test('a fall between the storm islands returns Uma to the last island and costs 
  const g=free(false),n=g.boss.network;place(g,'8:0',300);g.player.inv=0;n.free.timer=99;tick(g,2);const h=g.health;Object.assign(g.player,{x:g.platforms.find(s=>s.id==='8:0').x+470,y:520,grounded:false,supportId:null,vy:200});
  tick(g,2);assert.equal(g.health,h-1);assert.equal(g.player.supportId,'8:0');assert.equal(n.stage,'free');
 });
-test('pause freezes the colossus; retry rebuilds the hall',()=>{
+test('pause freezes the colossus; retry rebuilds the hall at once',()=>{
  const g=colossus(),n=g.boss.network;attack(g,0);g.mode='paused';const before=JSON.stringify(n);tick(g,90);assert.equal(JSON.stringify(n),before);g.mode='playing';
- g.retryLocation();assert.equal(g.boss.network.stage,'network');assert.equal(g.boss.hp,INFOSHUM_HP);assert.ok(g.platforms.filter(s=>s.room===8).every(s=>!s.bossHidden));
+ g.retryLocation();assert.equal(g.boss.network.stage,'network');assert.equal(g.boss.hp,INFOSHUM_HP);assert.ok(g.platforms.some(s=>s.id==='8:9'&&s.y===262)&&g.platforms.find(s=>s.id==='8:7').bossHidden,'the hall is ready at once — no stray platforms flash at the start');
  g.boss.active=true;g.mode='playing';g.notebooks=[];assert.ok(until(g,()=>g.platforms.some(s=>s.id==='8:9'&&s.y===262)&&g.platforms.find(s=>s.id==='8:7').bossHidden,240),'the hall is built again');
 });

diff --git a/agitator-art.js b/agitator-art.js
@@ -67,7 +67,8 @@ export function drawAgitatorPlatform(c,a,p,t){
   return;
  }
  const ci=AGI.chimneys.indexOf(i);
- if(ci>=0){const ch=CHIMNEYS[ci],box=ch.tall?PROPS.chimneyTall:PROPS.chimneyLow,k=p.w/box[2]*1.08,w=box[2]*k,h=box[3]*k,potRise=ch.tall?28*k:22*k;if(a.agitatorProps)blit(c,a.agitatorProps,box,p.x+p.w/2-w/2,p.y-potRise,w,h);return;}
+ if(ci>=0){const ch=CHIMNEYS[ci],box=ch.tall?PROPS.chimneyTall:PROPS.chimneyLow,k=p.w/box[2]*1.08,w=box[2]*k,potRise=ch.tall?28*k:22*k,h=ch.h+potRise+3;// stretched down so the stack stands on the roof
+  if(a.agitatorProps)blit(c,a.agitatorProps,[box[0],box[1],box[2],box[3]-4],p.x+p.w/2-w/2,p.y-potRise,w,h);return;}
 }
 // Hatches lie on the roof in front of the floor tiles.
 export function drawAgitatorEquipment(c,a,g,t){
